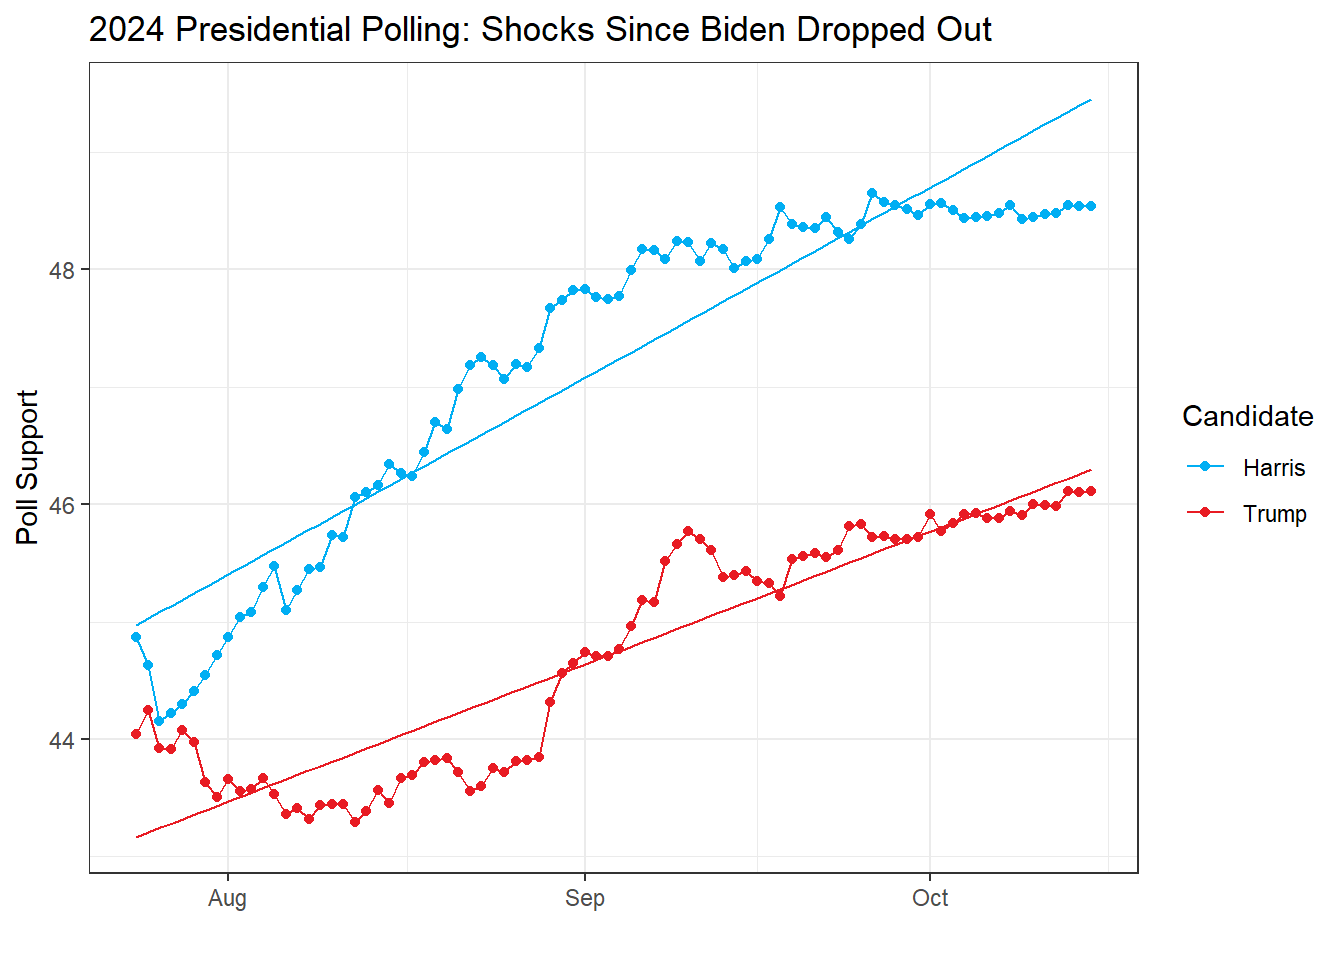
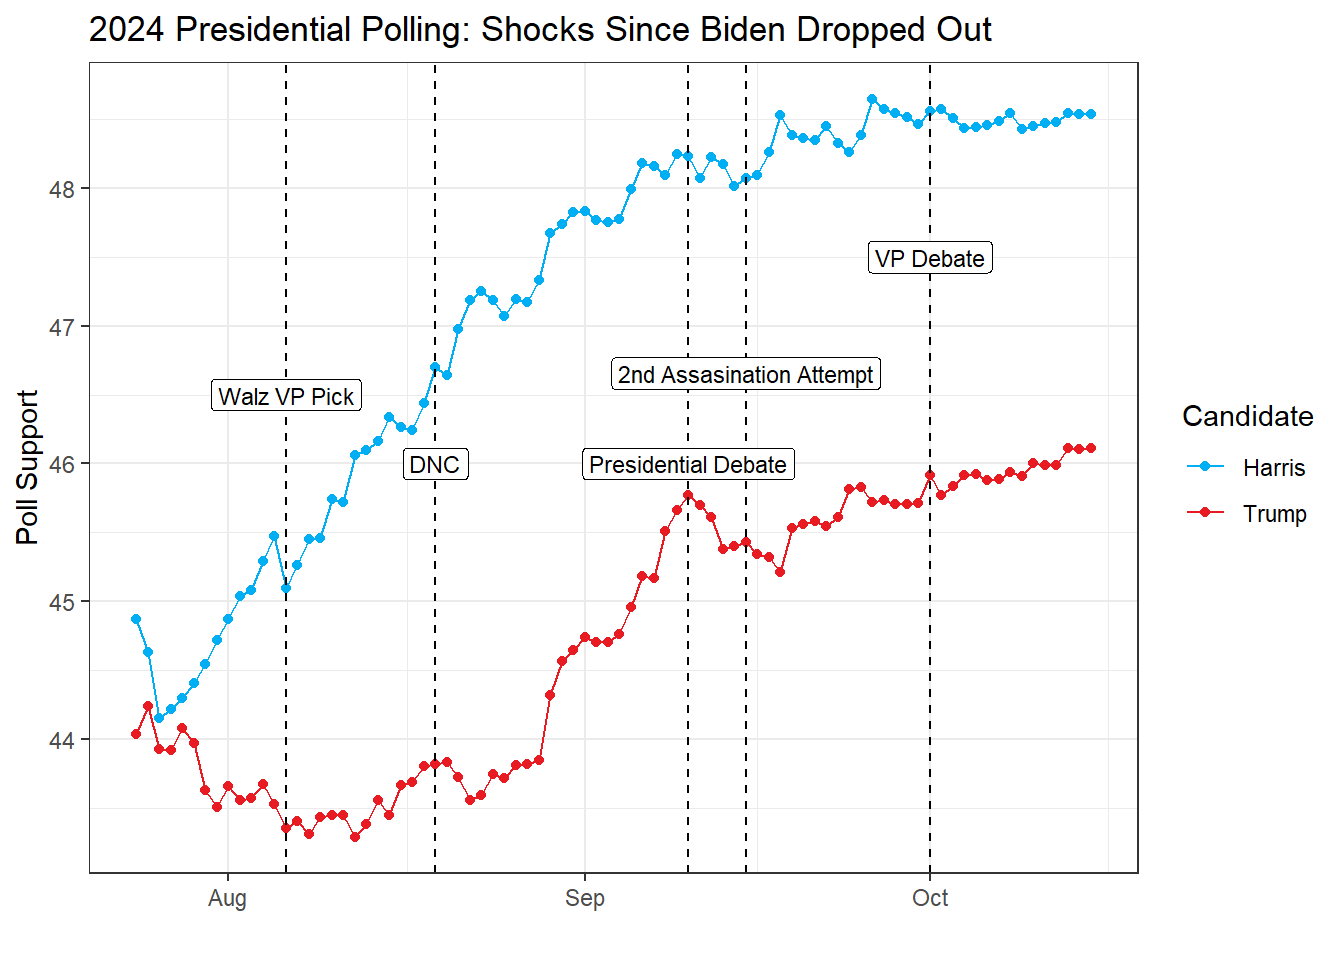
Last pre-2:00 commit

diff --git a/public/post/2024/10/24/blog-post-8-shocks-and-game-changing-events/index.html b/public/post/2024/10/24/blog-post-8-shocks-and-game-changing-events/index.html
@@ -35,170 +35,16 @@
 
 <main>
 <h2 id="discussion-of-shocks-and-game-changing-events">Discussion of Shocks and Game Changing Events</h2>
+<p>This week in class, we discussed shocks that sometimes are theorized to have played a role in election outcomes. These can be non-political shocks like natural disasters, or more political ones like a truly awful debate performance.</p>
+<p>In this election cycle, it seems like hardly anything can truly move the polls much. (My theory is that we are numb to crazy things happening now and it just doesn&rsquo;t phase us anymore). This election cycle, unpredictable shocks have almost been the norm. There have been two attempted assassination attempts on Former President Trump and President Biden dropped his re-election campaign extremely late in the game. Trump has said and done some very strange or alarming things. Two serious hurricanes hit the Southern coast in a matter of two weeks. Yet, almost none of these &ldquo;game-changing&rdquo; events have made a significant or lasting impact on the polls.</p>
+<p>The one shock that did make a clear difference was Biden&rsquo;s dropping out in late July. The Democrats went from polling barely above 40% to 45% in a matter of days. Looking at the graph below too, it does look like the first assassination attempt on Former President Trump also had an impact, but was masked somewhat by Harris&rsquo; entrance into the race as the new Democratic nominee.</p>
 <img src="https://example.org/post/2024/10/24/blog-post-8-shocks-and-game-changing-events/index_files/figure-html/plot Biden dropout-1.png" width="672" />
 <img src="https://example.org/post/2024/10/24/blog-post-8-shocks-and-game-changing-events/index_files/figure-html/plot other shocks-1.png" width="672" />
-<p>Table: (#tab:explore the hurricane data)Counties in Each State Impacted by a Hurricanes in Election Years</p>
-<table>
-<thead>
-<tr>
-<th style="text-align:left">State</th>
-<th style="text-align:right">1996</th>
-<th style="text-align:right">2000</th>
-<th style="text-align:right">2004</th>
-<th style="text-align:right">2008</th>
-<th style="text-align:right">2012</th>
-</tr>
-</thead>
-<tbody>
-<tr>
-<td style="text-align:left">Alabama</td>
-<td style="text-align:right">0</td>
-<td style="text-align:right">0</td>
-<td style="text-align:right">14</td>
-<td style="text-align:right">0</td>
-<td style="text-align:right">0</td>
-</tr>
-<tr>
-<td style="text-align:left">Arkansas</td>
-<td style="text-align:right">0</td>
-<td style="text-align:right">0</td>
-<td style="text-align:right">0</td>
-<td style="text-align:right">0</td>
-<td style="text-align:right">0</td>
-</tr>
-<tr>
-<td style="text-align:left">Delaware</td>
-<td style="text-align:right">0</td>
-<td style="text-align:right">0</td>
-<td style="text-align:right">0</td>
-<td style="text-align:right">0</td>
-<td style="text-align:right">0</td>
-</tr>
-<tr>
-<td style="text-align:left">Florida</td>
-<td style="text-align:right">4</td>
-<td style="text-align:right">25</td>
-<td style="text-align:right">71</td>
-<td style="text-align:right">0</td>
-<td style="text-align:right">0</td>
-</tr>
-<tr>
-<td style="text-align:left">Georgia</td>
-<td style="text-align:right">8</td>
-<td style="text-align:right">0</td>
-<td style="text-align:right">0</td>
-<td style="text-align:right">0</td>
-<td style="text-align:right">0</td>
-</tr>
-<tr>
-<td style="text-align:left">Louisiana</td>
-<td style="text-align:right">0</td>
-<td style="text-align:right">0</td>
-<td style="text-align:right">14</td>
-<td style="text-align:right">39</td>
-<td style="text-align:right">31</td>
-</tr>
-<tr>
-<td style="text-align:left">Maine</td>
-<td style="text-align:right">8</td>
-<td style="text-align:right">0</td>
-<td style="text-align:right">0</td>
-<td style="text-align:right">0</td>
-<td style="text-align:right">0</td>
-</tr>
-<tr>
-<td style="text-align:left">Maryland</td>
-<td style="text-align:right">10</td>
-<td style="text-align:right">0</td>
-<td style="text-align:right">0</td>
-<td style="text-align:right">0</td>
-<td style="text-align:right">0</td>
-</tr>
-<tr>
-<td style="text-align:left">Mississippi</td>
-<td style="text-align:right">0</td>
-<td style="text-align:right">0</td>
-<td style="text-align:right">25</td>
-<td style="text-align:right">8</td>
-<td style="text-align:right">0</td>
-</tr>
-<tr>
-<td style="text-align:left">New Hampshire</td>
-<td style="text-align:right">1</td>
-<td style="text-align:right">0</td>
-<td style="text-align:right">0</td>
-<td style="text-align:right">0</td>
-<td style="text-align:right">0</td>
-</tr>
-<tr>
-<td style="text-align:left">New Jersey</td>
-<td style="text-align:right">0</td>
-<td style="text-align:right">0</td>
-<td style="text-align:right">0</td>
-<td style="text-align:right">0</td>
-<td style="text-align:right">0</td>
-</tr>
-<tr>
-<td style="text-align:left">North Carolina</td>
-<td style="text-align:right">124</td>
-<td style="text-align:right">0</td>
-<td style="text-align:right">33</td>
-<td style="text-align:right">0</td>
-<td style="text-align:right">0</td>
-</tr>
-<tr>
-<td style="text-align:left">South Carolina</td>
-<td style="text-align:right">15</td>
-<td style="text-align:right">0</td>
-<td style="text-align:right">4</td>
-<td style="text-align:right">0</td>
-<td style="text-align:right">0</td>
-</tr>
-<tr>
-<td style="text-align:left">Texas</td>
-<td style="text-align:right">0</td>
-<td style="text-align:right">0</td>
-<td style="text-align:right">0</td>
-<td style="text-align:right">24</td>
-<td style="text-align:right">0</td>
-</tr>
-<tr>
-<td style="text-align:left">Virginia</td>
-<td style="text-align:right">4</td>
-<td style="text-align:right">0</td>
-<td style="text-align:right">0</td>
-<td style="text-align:right">0</td>
-<td style="text-align:right">0</td>
-</tr>
-</tbody>
-</table>
-<pre><code>## Warning: There were 2 warnings in `mutate()`.
-## The first warning was:
-## ℹ In argument: `damage_property = case_when(...)`.
-## Caused by warning:
-## ! NAs introduced by coercion
-## ℹ Run `dplyr::last_dplyr_warnings()` to see the 1 remaining warning.
-</code></pre>
-<pre><code>## # A tibble: 138 × 13
-## # Groups:   state [15]
-##    state    ymd       year month   day counties_affected injuries_direct
-##    &lt;chr&gt;    &lt;chr&gt;    &lt;dbl&gt; &lt;dbl&gt; &lt;dbl&gt;             &lt;int&gt;           &lt;dbl&gt;
-##  1 Alabama  07092005  2005     7     9                15               0
-##  2 Alabama  07102005  2005     7    10                 3               0
-##  3 Alabama  07181997  1997     7    18                 4               0
-##  4 Alabama  07211997  1997     7    21                 1               0
-##  5 Alabama  08272005  2005     8    27                 6               0
-##  6 Alabama  09011998  1998     9     1                 4               0
-##  7 Alabama  09132004  2004     9    13                14               0
-##  8 Alabama  09251998  1998     9    25                13               0
-##  9 Alabama  10022002  2002    10     2                 4               0
-## 10 Arkansas 08292005  2005     8    29                 2               0
-## # ℹ 128 more rows
-## # ℹ 6 more variables: injuries_indirect &lt;dbl&gt;, deaths_direct &lt;dbl&gt;,
-## #   deaths_indirect &lt;dbl&gt;, magnitude &lt;dbl&gt;, damage_property &lt;dbl&gt;,
-## #   damage_crops &lt;dbl&gt;
-</code></pre>
+<p>One shock that may have been less predictable are the hurricanes that slammed Florida and North Carolina earlier this month. There are two different theories of voter behavior in situations like this. First, the idea that voters will punish the incumbent no matter their response, simply because it happened and it reduced their well-being. Theories like this are backed up by research like that of Achen and Bartels who found that voters punish the incumbent for shark attacks. On the other hand, another theory is that voters will reward incumbents who respond promptly and efficiently, which is supported by research like the Healy et al paper on tornados and eocnomic impact, which found that voters punished incumbents when economic damage results from tornados, but only with strong effects when a state of emergency was not declared.</p>
+<img src="https://example.org/post/2024/10/24/blog-post-8-shocks-and-game-changing-events/index_files/figure-html/look at polls in NC and Georgia to see if there are clear effects-1.png" width="1152" />
+<p>If we had to draw conclusions from a these two graphs, we would probably conclude that the hurricanes reduced support for the Democrats in these two states, specifically Helene. That said, it doesn&rsquo;t make a whole lot of sense to draw those conclusions from this evidence alone given confounding variables. Communities that were hit hard by the hurricanes or their aftermath probably don&rsquo;t have a lot of people in them right now who are just sitting at home answering poll questions. They are out there trying to help build back their communities. It is unlikely we will be able to truly look at the impact of these events until after election day.</p>
 <h2 id="national-popular-vote-prediction">National Popular Vote Prediction</h2>
+<p>I did not change anything in my model for predicting the national popular vote this week, but the national polling averages were updated.</p>
 <pre><code>##            s1
 ## [1,] 49.17162
 ## [2,] 48.04352

diff --git a/content/post/2024-10-24-blog-post-8-shocks-and-game-changing-events/index.md b/content/post/2024-10-24-blog-post-8-shocks-and-game-changing-events/index.md
@@ -20,67 +20,31 @@ tags: []
 
 ## Discussion of Shocks and Game Changing Events
 
+This week in class, we discussed shocks that sometimes are theorized to have played a role in election outcomes. These can be non-political shocks like natural disasters, or more political ones like a truly awful debate performance. 
+
+In this election cycle, it seems like hardly anything can truly move the polls much. (My theory is that we are numb to crazy things happening now and it just doesn't phase us anymore). This election cycle, unpredictable shocks have almost been the norm. There have been two attempted assassination attempts on Former President Trump and President Biden dropped his re-election campaign extremely late in the game. Trump has said and done some very strange or alarming things. Two serious hurricanes hit the Southern coast in a matter of two weeks. Yet, almost none of these "game-changing" events have made a significant or lasting impact on the polls. 
+
+The one shock that did make a clear difference was Biden's dropping out in late July. The Democrats went from polling barely above 40% to 45% in a matter of days. Looking at the graph below too, it does look like the first assassination attempt on Former President Trump also had an impact, but was masked somewhat by Harris' entrance into the race as the new Democratic nominee.
+
 <img src="{{< blogdown/postref >}}index_files/figure-html/plot Biden dropout-1.png" width="672" />
 
 <img src="{{< blogdown/postref >}}index_files/figure-html/plot other shocks-1.png" width="672" />
 
+One shock that may have been less predictable are the hurricanes that slammed Florida and North Carolina earlier this month. There are two different theories of voter behavior in situations like this. First, the idea that voters will punish the incumbent no matter their response, simply because it happened and it reduced their well-being. Theories like this are backed up by research like that of Achen and Bartels who found that voters punish the incumbent for shark attacks. On the other hand, another theory is that voters will reward incumbents who respond promptly and efficiently, which is supported by research like the Healy et al paper on tornados and eocnomic impact, which found that voters punished incumbents when economic damage results from tornados, but only with strong effects when a state of emergency was not declared. 
 
 
 
 
 
-Table: (\#tab:explore the hurricane data)Counties in Each State Impacted by a Hurricanes in Election Years
+<img src="{{< blogdown/postref >}}index_files/figure-html/look at polls in NC and Georgia to see if there are clear effects-1.png" width="1152" />
 
-|State          | 1996| 2000| 2004| 2008| 2012|
-|:--------------|----:|----:|----:|----:|----:|
-|Alabama        |    0|    0|   14|    0|    0|
-|Arkansas       |    0|    0|    0|    0|    0|
-|Delaware       |    0|    0|    0|    0|    0|
-|Florida        |    4|   25|   71|    0|    0|
-|Georgia        |    8|    0|    0|    0|    0|
-|Louisiana      |    0|    0|   14|   39|   31|
-|Maine          |    8|    0|    0|    0|    0|
-|Maryland       |   10|    0|    0|    0|    0|
-|Mississippi    |    0|    0|   25|    8|    0|
-|New Hampshire  |    1|    0|    0|    0|    0|
-|New Jersey     |    0|    0|    0|    0|    0|
-|North Carolina |  124|    0|   33|    0|    0|
-|South Carolina |   15|    0|    4|    0|    0|
-|Texas          |    0|    0|    0|   24|    0|
-|Virginia       |    4|    0|    0|    0|    0|
+If we had to draw conclusions from a these two graphs, we would probably conclude that the hurricanes reduced support for the Democrats in these two states, specifically Helene. That said, it doesn't make a whole lot of sense to draw those conclusions from this evidence alone given confounding variables. Communities that were hit hard by the hurricanes or their aftermath probably don't have a lot of people in them right now who are just sitting at home answering poll questions. They are out there trying to help build back their communities. It is unlikely we will be able to truly look at the impact of these events until after election day. 
 
 
-```
-## Warning: There were 2 warnings in `mutate()`.
-## The first warning was:
-## ℹ In argument: `damage_property = case_when(...)`.
-## Caused by warning:
-## ! NAs introduced by coercion
-## ℹ Run `dplyr::last_dplyr_warnings()` to see the 1 remaining warning.
-```
-
-```
-## # A tibble: 138 × 13
-## # Groups:   state [15]
-##    state    ymd       year month   day counties_affected injuries_direct
-##    <chr>    <chr>    <dbl> <dbl> <dbl>             <int>           <dbl>
-##  1 Alabama  07092005  2005     7     9                15               0
-##  2 Alabama  07102005  2005     7    10                 3               0
-##  3 Alabama  07181997  1997     7    18                 4               0
-##  4 Alabama  07211997  1997     7    21                 1               0
-##  5 Alabama  08272005  2005     8    27                 6               0
-##  6 Alabama  09011998  1998     9     1                 4               0
-##  7 Alabama  09132004  2004     9    13                14               0
-##  8 Alabama  09251998  1998     9    25                13               0
-##  9 Alabama  10022002  2002    10     2                 4               0
-## 10 Arkansas 08292005  2005     8    29                 2               0
-## # ℹ 128 more rows
-## # ℹ 6 more variables: injuries_indirect <dbl>, deaths_direct <dbl>,
-## #   deaths_indirect <dbl>, magnitude <dbl>, damage_property <dbl>,
-## #   damage_crops <dbl>
-```
 
 ## National Popular Vote Prediction
+
+I did not change anything in my model for predicting the national popular vote this week, but the national polling averages were updated.
 
 
 ```
